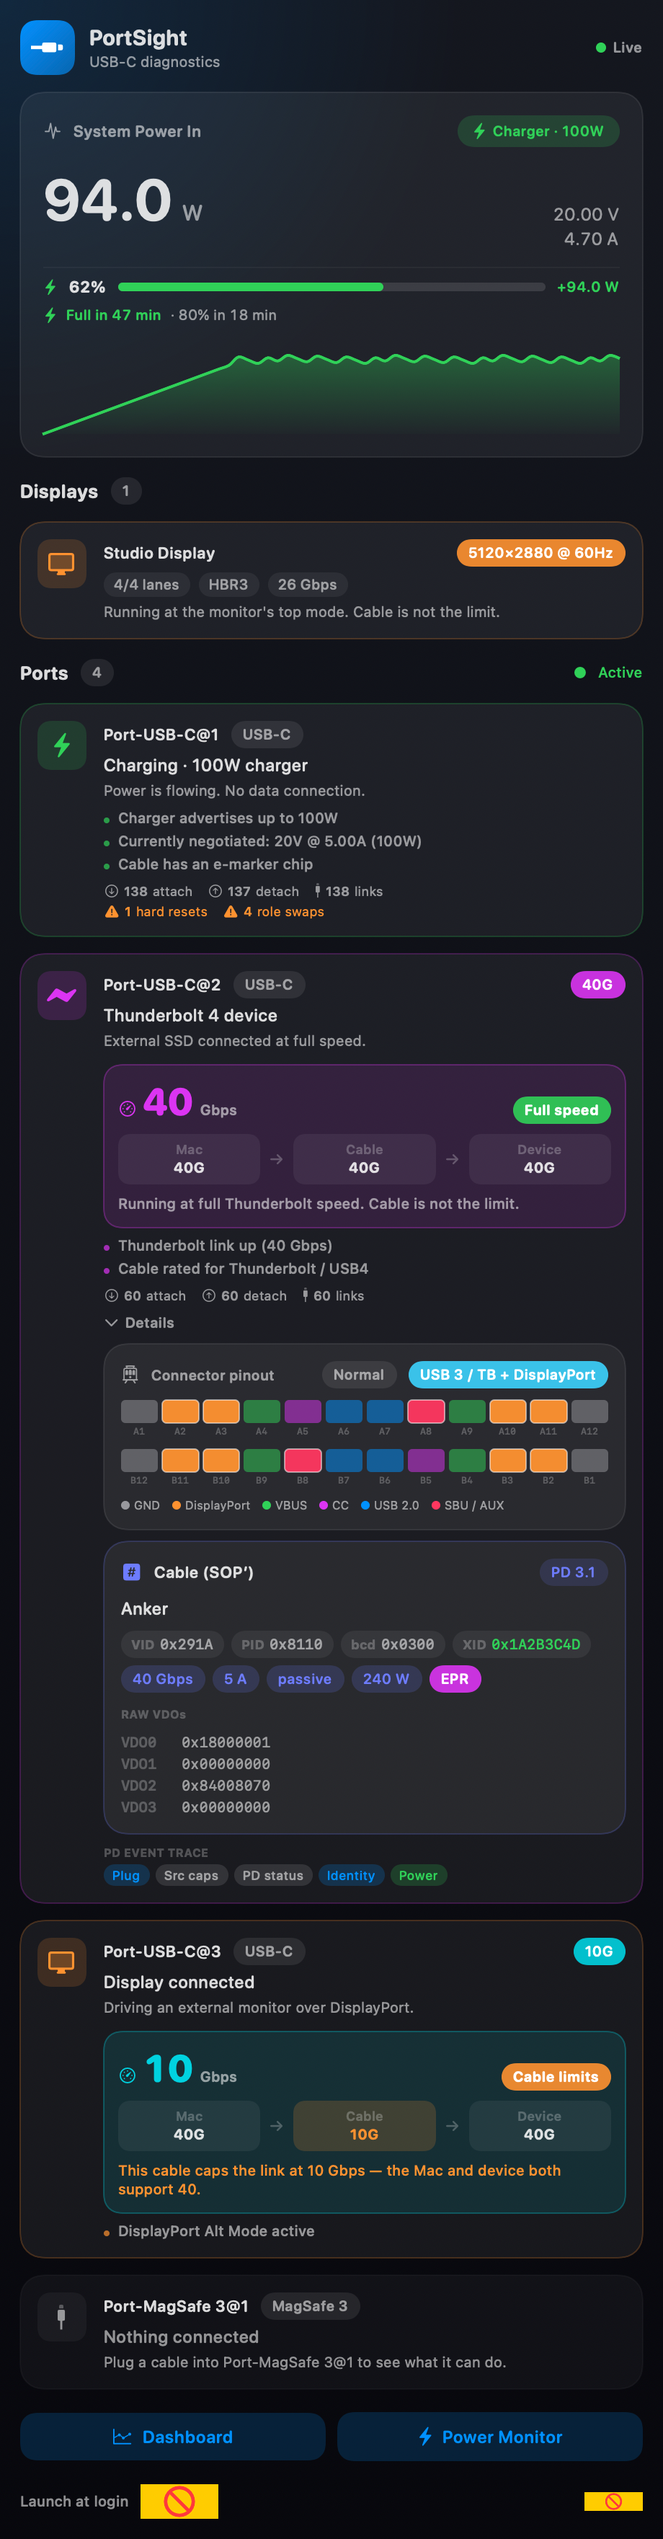
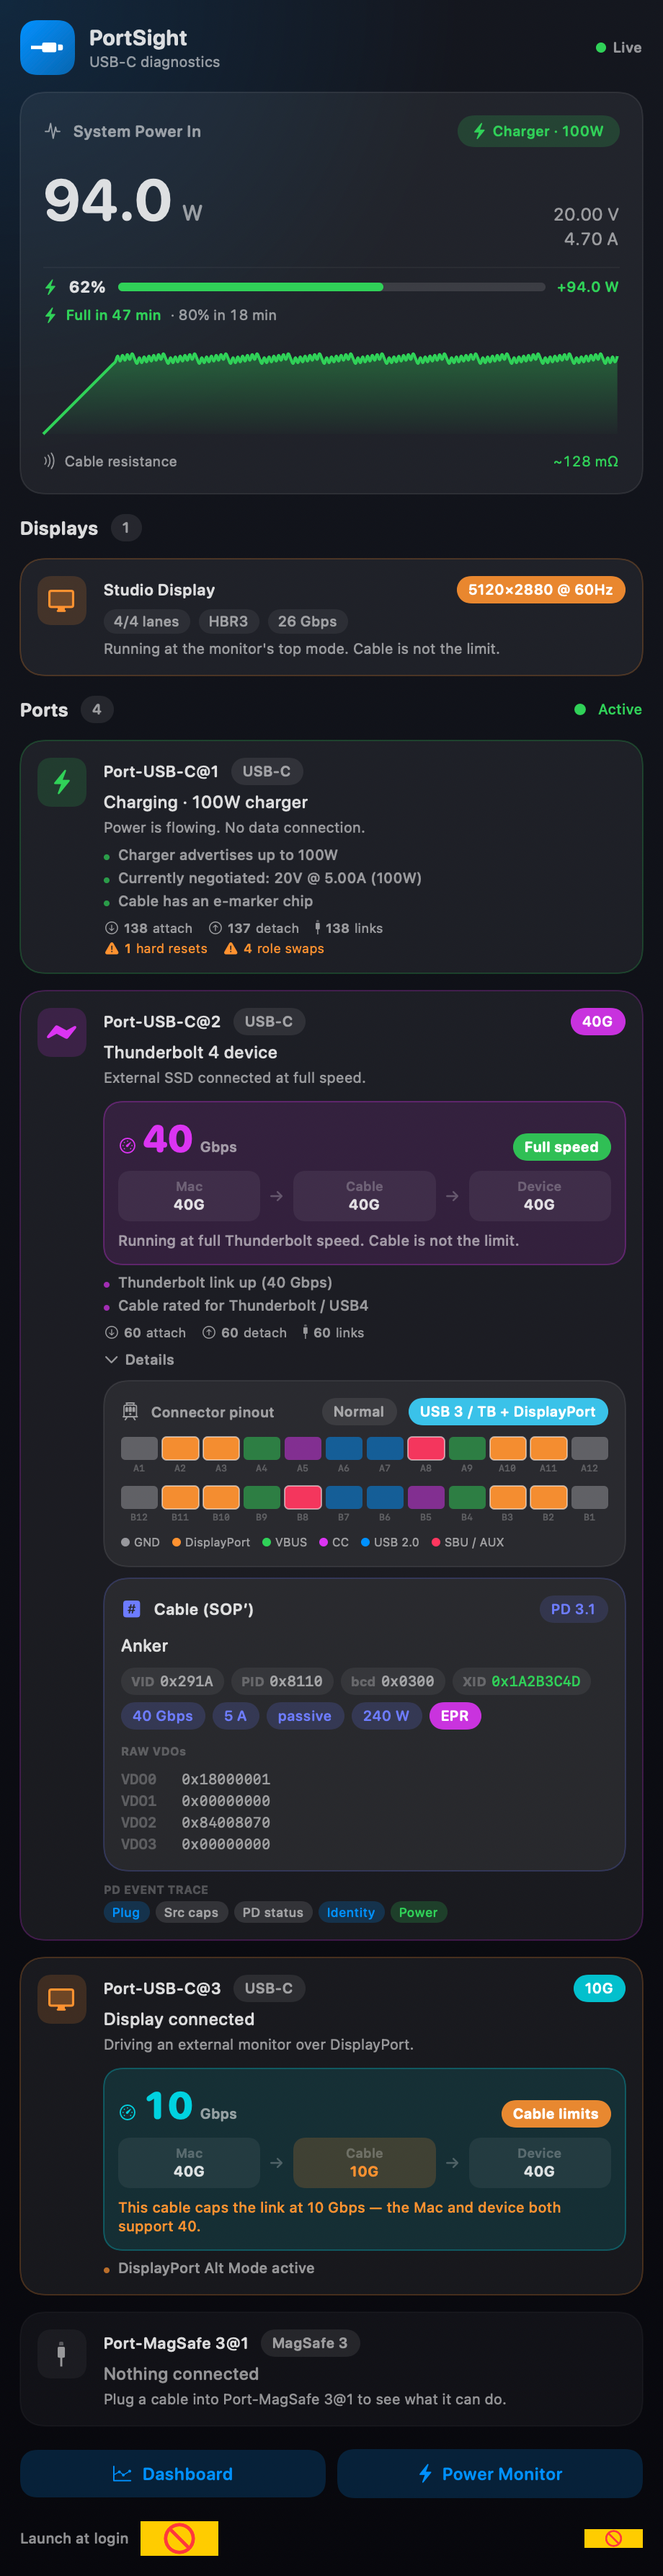
Accumulating left-to-right power chart; own system-level cable-resistance estimator (works on laptops)

diff --git a/Sources/CableProUI/SnapshotModel.swift b/Sources/CableProUI/SnapshotModel.swift
@@ -244,6 +244,69 @@ struct PortEventVM: Identifiable, Equatable {
     let severity: SpeedVM.Severity
 }
 
+/// Number of power samples retained/plotted. At 1 Hz this is the width of the
+/// live chart's time window; the chart fills left→right until it's reached.
+let powerSampleCap = 240   // ~4 minutes
+
+// Cable resistance estimate (our own, system-level). WhatCable's per-port
+// regression needs per-port telemetry that laptops don't expose, so instead we
+// regress the charger→Mac voltage drop (negotiatedV − systemV) against system
+// input current. The slope is the series resistance.
+struct ResistanceVM: Equatable {
+    enum Phase: Equatable { case notCharging, measuring(Int), needsLoad, stable, unreliable }
+    let milliohms: Double
+    let phase: Phase
+    let sampleCount: Int
+    static let target = 40
+}
+
+@MainActor
+final class ResistanceEstimator {
+    private struct S { let i: Double; let v: Double }  // current mA, drop mV
+    private var win: [S] = []
+    private let cap = 240
+    private var lastNegotiated = 0
+    private let minSamples = 15
+    private let minSpreadMA = 120.0
+
+    func update(negotiatedMV: Int, systemVoltageInMV: Int, systemCurrentInMA: Int, charging: Bool) -> ResistanceVM {
+        guard charging else { win.removeAll(); return ResistanceVM(milliohms: 0, phase: .notCharging, sampleCount: 0) }
+        if negotiatedMV != lastNegotiated { win.removeAll(); lastNegotiated = negotiatedMV }
+
+        let drop = Double(negotiatedMV - systemVoltageInMV)
+        if negotiatedMV > 0, systemCurrentInMA > 30, drop > 0 {
+            win.append(S(i: Double(systemCurrentInMA), v: drop))
+            if win.count > cap { win.removeFirst(win.count - cap) }
+        }
+        let n = win.count
+        if n < minSamples { return ResistanceVM(milliohms: 0, phase: .measuring(n), sampleCount: n) }
+
+        let currents = win.map(\.i)
+        let spread = (currents.max() ?? 0) - (currents.min() ?? 0)
+        if spread < minSpreadMA { return ResistanceVM(milliohms: 0, phase: .needsLoad, sampleCount: n) }
+
+        // Least-squares fit: drop = slope·current + intercept. slope (mV/mA) = Ω.
+        let cnt = Double(n)
+        let mi = currents.reduce(0, +) / cnt
+        let mv = win.map(\.v).reduce(0, +) / cnt
+        let sii = win.reduce(0) { $0 + pow($1.i - mi, 2) }
+        guard sii > 0 else { return ResistanceVM(milliohms: 0, phase: .needsLoad, sampleCount: n) }
+        let siv = win.reduce(0) { $0 + ($1.i - mi) * ($1.v - mv) }
+        let slope = siv / sii
+        let intercept = mv - slope * mi
+        let total = win.reduce(0) { $0 + pow($1.v - mv, 2) }
+        let residual = win.reduce(0) { let p = slope * $1.i + intercept; return $0 + pow($1.v - p, 2) }
+        let r2 = total > 0 ? max(0, 1 - residual / total) : 0
+        let mOhm = max(0, slope * 1000)   // mV/mA → mΩ
+
+        let phase: ResistanceVM.Phase
+        if n < ResistanceVM.target { phase = .measuring(n) }
+        else if r2 >= 0.7 { phase = .stable }
+        else { phase = .unreliable }
+        return ResistanceVM(milliohms: mOhm, phase: phase, sampleCount: n)
+    }
+}
+
 @MainActor
 public final class SnapshotModel: ObservableObject {
     @Published private(set) var ports: [PortVM] = []
@@ -255,6 +318,7 @@ public final class SnapshotModel: ObservableObject {
     @Published private(set) var battery: BatteryVM?
     @Published private(set) var displays: [DisplayVM] = []
     @Published private(set) var portPower: [String: PortLivePower] = [:]
+    @Published private(set) var resistance: ResistanceVM?
 
     /// Persistent per-cable statistics (energy, sessions, history).
     /// In preview/offscreen mode (Theme.flat) it's in-memory so real catalogued
@@ -267,7 +331,7 @@ public final class SnapshotModel: ObservableObject {
     private let liquidWatcher = LiquidDetectionWatcher()
     private var started = false
     private var seq = 0
-    private let sampleCap = 120   // ~2 min at 1 Hz
+    private let sampleCap = powerSampleCap
 
     // Energy attribution: the e-markered cable currently on the charging port.
     private var chargingCableKey: String?
@@ -277,6 +341,9 @@ public final class SnapshotModel: ObservableObject {
     private let batteryEstimator = BatteryEstimator()
     private var lastPmset: PmsetInfo?
     private var pmsetTick = 0
+
+    // Cable resistance (our own system-level regression).
+    private let resistanceEstimator = ResistanceEstimator()
 
     // Latest inputs; ports are rebuilt whenever any of these changes so the
     // separate watcher clocks (cable / diagnostics / liquid) stay merged.
@@ -497,13 +564,24 @@ public final class SnapshotModel: ObservableObject {
         portPower = pp
         // Battery telemetry + our own smoothed prediction. pmset (a subprocess)
         // is refreshed every ~3s as a cross-reference, not every tick.
+        var negotiatedMV = 0
         if let b = AppleSmartBatteryReader.read().battery {
             pmsetTick += 1
             if lastPmset == nil || pmsetTick % 3 == 0 { lastPmset = PmsetReader.read() }
             battery = batteryEstimator.update(b, pmset: lastPmset)
+            negotiatedMV = b.adapterDetails?.voltageMV ?? 0
         } else {
             battery = nil
         }
+
+        // Our own cable-resistance estimate: regress (negotiatedV − systemV)
+        // drop against system input current. Works on laptops where WhatCable's
+        // per-port telemetry is unavailable.
+        resistance = resistanceEstimator.update(
+            negotiatedMV: negotiatedMV,
+            systemVoltageInMV: snap.systemSample.systemVoltageIn,
+            systemCurrentInMA: snap.systemSample.systemCurrentIn,
+            charging: snap.externalConnected && !snap.onBattery)
 
         // Attribute delivered energy to the charging cable (integrate P·dt).
         let now = Date()
@@ -584,9 +662,9 @@ public final class SnapshotModel: ObservableObject {
                    speed: nil,
                    health: noHealth, pdOptions: [], pdWinning: nil),
         ]
-        // Rising-then-steady power curve.
-        m.samples = (0..<60).map { i in
-            let w = i < 20 ? Double(i) * 4.5 : 88 + Double((i * 7) % 11)
+        // Rising-then-steady power curve filling the whole window.
+        m.samples = (0..<powerSampleCap).map { i in
+            let w = i < 30 ? Double(i) * 3.0 : 88 + Double((i * 7) % 13)
             return PowerPoint(id: i, watts: w)
         }
         m.power = PowerMonitorSnapshot(
@@ -611,6 +689,7 @@ public final class SnapshotModel: ObservableObject {
         m.battery = BatteryVM(soc: 62, isCharging: true, externalConnected: true,
                               fullyCharged: false, minutesToFull: 47, minutesTo80: 18,
                               minutesToEmpty: nil, watts: 94)
+        m.resistance = ResistanceVM(milliohms: 128, phase: .stable, sampleCount: 40)
         let t0 = Date(timeIntervalSince1970: 1_710_000_000)
         m.cableStore.seedPreview([
             CableRecord(fingerprint: "a", name: "Desk charger (Anker)", vendorName: "Anker",

diff --git a/Sources/CableProUI/PowerCard.swift b/Sources/CableProUI/PowerCard.swift
@@ -8,6 +8,7 @@ struct PowerCard: View {
     let samples: [PowerPoint]
     let adapterWatts: Int?
     var battery: BatteryVM? = nil
+    var resistance: ResistanceVM? = nil
 
     private var onBattery: Bool { power?.onBattery ?? false }
     private var accent: Color { onBattery ? .yellow : .green }
@@ -53,7 +54,7 @@ struct PowerCard: View {
 
             chart
 
-            if let r = power?.resistanceEstimate {
+            if let r = resistance {
                 resistanceRow(r)
             }
         }
@@ -138,23 +139,25 @@ struct PowerCard: View {
 
     @ViewBuilder private var chart: some View {
         let peak = max(samples.map(\.watts).max() ?? 1, Double(adapterWatts ?? 0), 1)
-        Chart(samples) { pt in
-            AreaMark(x: .value("t", pt.id), y: .value("W", pt.watts))
-                .interpolationMethod(.catmullRom)
+        // Plot by position with a FIXED x-domain so the history builds up
+        // left→right (fills the window over ~4 min) instead of a fast scroll.
+        Chart(Array(samples.enumerated()), id: \.offset) { i, pt in
+            AreaMark(x: .value("t", i), y: .value("W", pt.watts))
+                .interpolationMethod(.monotone)
                 .foregroundStyle(
                     LinearGradient(colors: [accent.opacity(0.35), accent.opacity(0.02)],
                                    startPoint: .top, endPoint: .bottom))
-            LineMark(x: .value("t", pt.id), y: .value("W", pt.watts))
-                .interpolationMethod(.catmullRom)
+            LineMark(x: .value("t", i), y: .value("W", pt.watts))
+                .interpolationMethod(.monotone)
                 .foregroundStyle(accent)
                 .lineStyle(.init(lineWidth: 2))
         }
+        .chartXScale(domain: 0...Double(powerSampleCap))
         .chartYScale(domain: 0...(peak * 1.15))
         .chartXAxis(.hidden)
         .chartYAxis(.hidden)
         .chartLegend(.hidden)
         .frame(height: 64)
-        .animation(.easeOut(duration: 0.4), value: samples)
         .overlay(alignment: .center) {
             if samples.isEmpty {
                 Text("collecting samples…")
@@ -163,17 +166,14 @@ struct PowerCard: View {
         }
     }
 
-    private func resistanceRow(_ r: CableResistanceEstimate) -> some View {
-        // Resistance is only measurable while charging (current must flow
-        // through the cable). Be explicit rather than showing a stuck "measuring…".
-        let charging = (power?.externalConnected ?? false) && !onBattery
+    private func resistanceRow(_ r: ResistanceVM) -> some View {
         let (text, color): (String, Color) = {
-            guard charging else { return ("plug in charger to measure", .secondary) }
-            switch r.status {
-            case .stable:       return (String(format: "~%.0f mΩ", r.milliohms), .green)
-            case .converging:   return ("measuring… (\(r.sampleCount)/30)", .yellow)
-            case .insufficient: return ("measuring… (\(r.sampleCount)/10)", .secondary)
-            case .unreliable:   return ("needs a varying charge load", .orange)
+            switch r.phase {
+            case .notCharging:      return ("plug in charger to measure", .secondary)
+            case .measuring(let n): return ("measuring… (\(n)/\(ResistanceVM.target))", .yellow)
+            case .needsLoad:        return ("needs a varying charge load", .orange)
+            case .stable:           return (String(format: "~%.0f mΩ", r.milliohms), .green)
+            case .unreliable:       return ("unreliable — vary the load", .orange)
             }
         }()
         return HStack(spacing: 6) {

diff --git a/Sources/CableProUI/PowerMonitorWindowView.swift b/Sources/CableProUI/PowerMonitorWindowView.swift
@@ -43,7 +43,7 @@ public struct PowerMonitorWindowView: View {
 
                 chart
 
-                if let r = model.power?.resistanceEstimate, r.status == .stable {
+                if let r = model.resistance, case .stable = r.phase {
                     Label(String(format: "Cable resistance ≈ %.0f mΩ", r.milliohms),
                           systemImage: "wave.3.right")
                         .font(.system(.callout, design: .rounded))
@@ -69,15 +69,16 @@ public struct PowerMonitorWindowView: View {
 
     @ViewBuilder private var chart: some View {
         let peak = max(model.samples.map(\.watts).max() ?? 1, Double(model.adapterWatts ?? 0), 1)
-        Chart(model.samples) { pt in
-            AreaMark(x: .value("t", pt.id), y: .value("W", pt.watts))
-                .interpolationMethod(.catmullRom)
+        Chart(Array(model.samples.enumerated()), id: \.offset) { i, pt in
+            AreaMark(x: .value("t", i), y: .value("W", pt.watts))
+                .interpolationMethod(.monotone)
                 .foregroundStyle(LinearGradient(colors: [accent.opacity(0.35), accent.opacity(0.02)],
                                                 startPoint: .top, endPoint: .bottom))
-            LineMark(x: .value("t", pt.id), y: .value("W", pt.watts))
-                .interpolationMethod(.catmullRom)
+            LineMark(x: .value("t", i), y: .value("W", pt.watts))
+                .interpolationMethod(.monotone)
                 .foregroundStyle(accent).lineStyle(.init(lineWidth: 2.5))
         }
+        .chartXScale(domain: 0...Double(powerSampleCap))
         .chartYScale(domain: 0...(peak * 1.15))
         .chartXAxis(.hidden)
         .frame(minHeight: 220)

diff --git a/Sources/CableProUI/DashboardView.swift b/Sources/CableProUI/DashboardView.swift
@@ -90,15 +90,16 @@ public struct DashboardView: View {
         VStack(alignment: .leading, spacing: 10) {
             Text("System power").font(.system(.headline, design: .rounded))
             let peak = max(model.samples.map(\.watts).max() ?? 1, Double(model.adapterWatts ?? 0), 1)
-            Chart(model.samples) { pt in
-                AreaMark(x: .value("t", pt.id), y: .value("W", pt.watts))
-                    .interpolationMethod(.catmullRom)
+            Chart(Array(model.samples.enumerated()), id: \.offset) { i, pt in
+                AreaMark(x: .value("t", i), y: .value("W", pt.watts))
+                    .interpolationMethod(.monotone)
                     .foregroundStyle(LinearGradient(colors: [.green.opacity(0.35), .green.opacity(0.02)],
                                                     startPoint: .top, endPoint: .bottom))
-                LineMark(x: .value("t", pt.id), y: .value("W", pt.watts))
-                    .interpolationMethod(.catmullRom)
+                LineMark(x: .value("t", i), y: .value("W", pt.watts))
+                    .interpolationMethod(.monotone)
                     .foregroundStyle(.green).lineStyle(.init(lineWidth: 2))
             }
+            .chartXScale(domain: 0...Double(powerSampleCap))
             .chartYScale(domain: 0...(peak * 1.15))
             .chartXAxis(.hidden)
             .frame(height: 180)

diff --git a/Sources/CableProUI/ContentView.swift b/Sources/CableProUI/ContentView.swift
@@ -35,7 +35,8 @@ public struct ContentView: View {
             PowerCard(power: model.power,
                       samples: model.samples,
                       adapterWatts: model.adapterWatts,
-                      battery: model.battery)
+                      battery: model.battery,
+                      resistance: model.resistance)
             if !model.displays.isEmpty {
                 sectionHeader("Displays", count: model.displays.count)
                 ForEach(model.displays) { DisplayCard(display: $0) }
